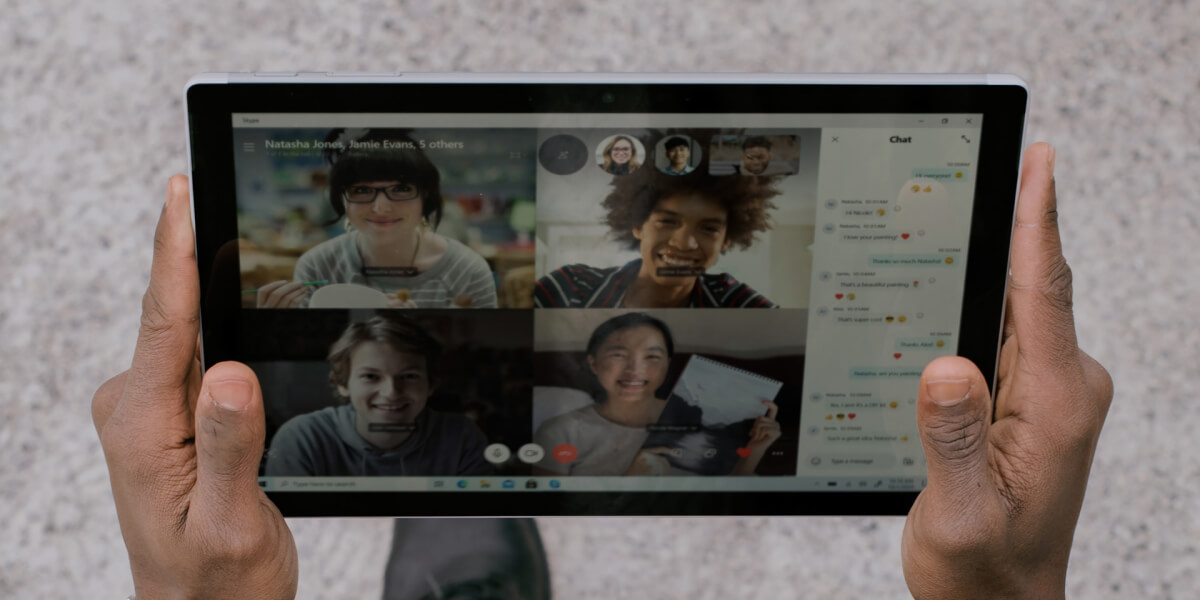
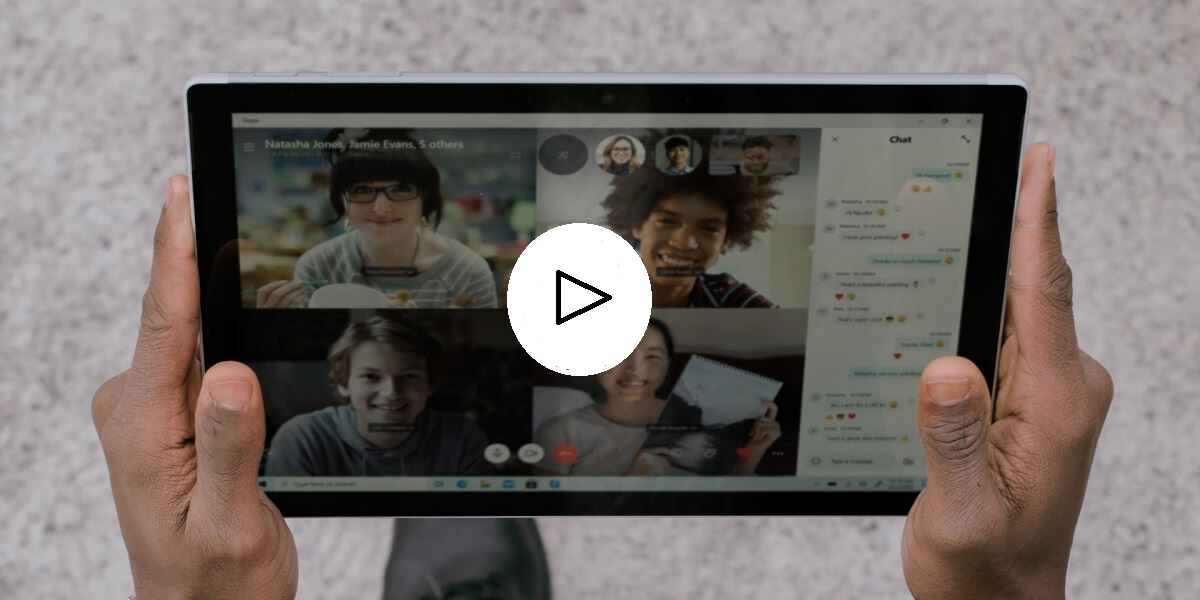
criando um lista

Changed region(s): [[0.4008, 0.36, 0.555, 0.63]]

diff --git a/src/pages/what.html b/src/pages/what.html
@@ -43,13 +43,71 @@
         </div>
        
     </header>
-    
-            <div id="player">▶</div>
-
     <main>
+        <section id="initial">
+            <h1>What I Offer</h1>
+            <p>Ultricies dui, pellentesque pellentesque tristique rhoncus, risus elementum massa 
+            <br> orci tellus arcu velit molestie quisque fusce.</p>
+            <img src="../assets/imagens/public-speaker-template-video-conference-img.jpg" alt="img">
+        </section>
 
+        <section id="live">
+            <div>
+                <h2>Live Online Sessions</h2>
+            </div>
+            <div>
+                <p>Nisl dictum ante amet, eu quis sed vestibulum donec egestas ornare porttitor volutpat euismod consequat mus augue aliquet eleifend erat placerat viverra pellentesque imperdiet.</p>
+                <a href="#" class="btn">Join us now</a>
+            </div>
+        </section>
 
-        
+        <section id="list">
+            <div class="border">
+                <div>
+                    <h2>01. <br> Sodales ornare diam <br> amet volutpat</h2>
+                </div>
+                <div>
+                    <p>Suspendisse lacus tellus consequat mi sed lorem tellus convallis <br> penatibus enim non auctor sagittis, commodo, dictum quis lorem <br> imperdiet urna.</p>
+                </div>
+                <a href="#" class="btn-acess">Join now</a>
+            </div>
+    
+            <div class="border">
+                <div>
+                    <h2>02. <br>Convallis auctor aliquet <br> commodo posuere</h2>
+                </div>
+                <div>
+                    <p>Diam dignissim dictum ac fermentum arcu ut blandit in dapibus <br>
+                        vestibulum facilisi tempor tincidunt ac nisl dictum sit eu sagittis, sed <br> felis blandit nisi.</p>
+                </div>
+                <div>
+                    <a href="#" class="btn-acess">Join now</a>
+                </div>
+            </div>
+    
+            <div class="border">
+                <div>
+                    <h2>03.<br> Vestibulum cras magna <br> nisl aliquam</h2>
+                </div>
+                <div>
+                    <p>Sed maecenas adipiscing orci pulvinar orci vel faucibus pretium lobortis <br> nunc aliquam pellentesque cursus dictumst nunc eget adipiscing amet <br> nam nibh sodales facilisis eget.</p>
+                </div>
+                <div>
+                    <a href="#" class="btn-acess">Join now</a>
+                </div>
+            </div>
+            <div class="border">
+                <div>
+                    <h2>04.<br> Tristique pretium <br> lorem arcu turpis</h2>
+                </div>
+                <div>
+                    <p>Hendrerit phasellus lectus donec turpis laoreet nibh ut venenatis, <br> lobortis ante nisl adipiscing enim neque nullam scelerisque hendrerit <br> ante egestas viverra pharetra fringilla nec.</p>
+                </div>
+                <div>
+                    <a href="#" class="btn-acess">Join now</a>
+                </div>
+            </div>
+        </section>
         <section id="contact">
             <div class="align-left">
                 <div>

diff --git a/src/assets/styles/what.css b/src/assets/styles/what.css
@@ -1,0 +1,55 @@
+#initial{
+    background-color: #1B1F29;
+    margin-top: 50px;
+    color: white;
+    text-align: center;
+    height: 200px;
+
+    display: flex;
+    flex-direction: column;
+    justify-content: center;
+    align-items: center;
+
+}
+
+#initial h1{
+    font-size: 4em;
+}
+
+#initial img{
+    position: absolute;
+    width: 70vw;
+    margin-top: 320px;
+}
+
+#live{
+    margin-top: 500px;
+    display: flex;
+    justify-content: space-evenly;
+    padding: 100px;
+}
+
+#live div:nth-child(1){
+    padding-right: 150px;
+}
+
+#live h2{
+    font-size: 2em;
+}
+
+#list{
+    display: flex;
+    flex-direction: column;
+    padding: 30px;
+}
+
+.border{
+    display: flex;
+    flex-direction: row;
+    justify-content: space-evenly;
+    text-align: justify;
+    border-top: 1px solid gray;
+    margin-top: 10px;
+
+    padding: 20px;
+}
